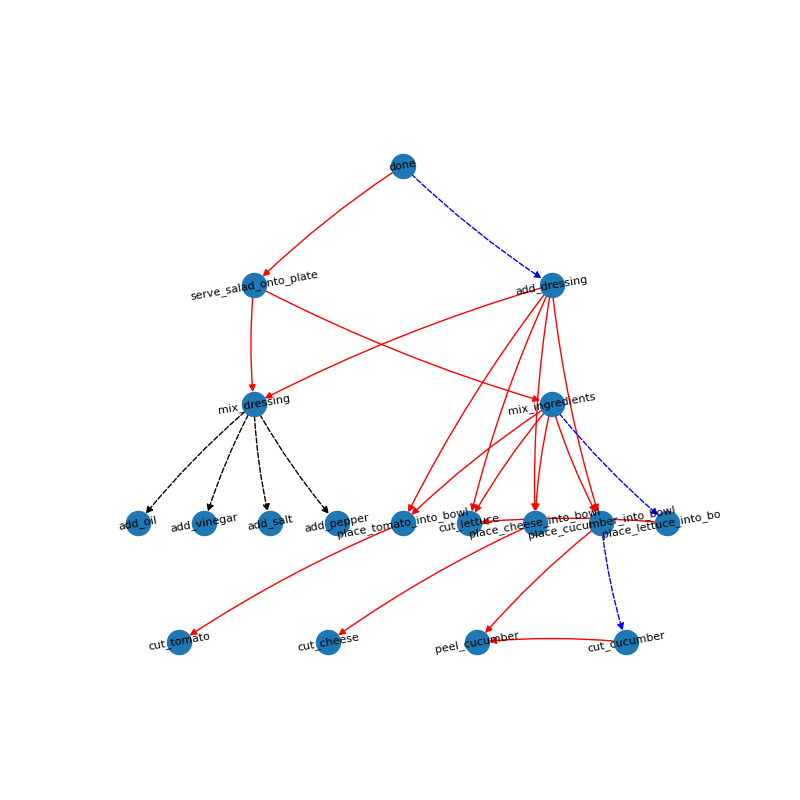
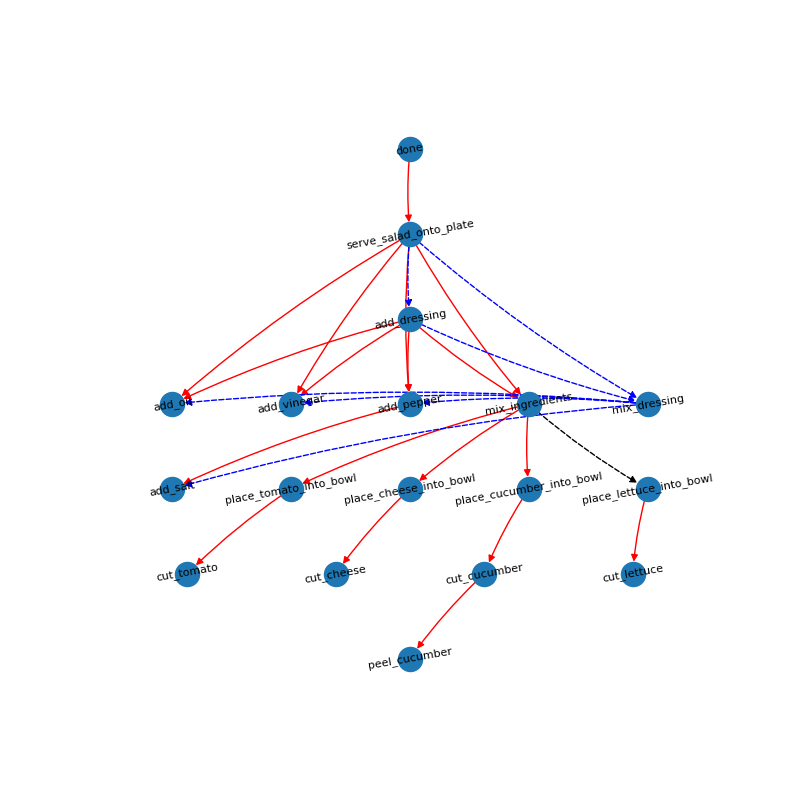
Trying to fix mix_dressing

diff --git a/combined_graph_2.py b/combined_graph_2.py
@@ -1,0 +1,192 @@
+import networkx as nx
+import matplotlib.pyplot as plt
+import math
+import numpy as np
+from graph_2 import *
+from pos import *
+import random
+import individual_graph
+
+high_level_nodes = ["cut_and_mix_ingredients", "prepare_dressing", "serve_salad"]
+
+def get_action_list(annotation_file):
+    f = open(annotation_file, 'r')
+    lines = f.readlines()
+    f.close()
+
+    all_actions = []
+    for line in lines:
+        tokens = line.split(' ')
+        start_time = tokens[0]
+        action_name = tokens[2][:-1]
+        if action_name not in high_level_nodes:
+            all_actions.append([start_time, action_name])
+    all_actions = sorted(all_actions, key=lambda x : int(x[0]))
+
+    refined_actions = []
+    for _, action_name in all_actions:
+        action_split = action_name.split('_')
+        if action_split[-1] in ['core', 'prep', 'post']:
+            action_name = "_".join(action_split[:-1])
+        if len(refined_actions) == 0 or refined_actions[-1] != action_name:
+            refined_actions.append(action_name) 
+    refined_actions.append("done")
+
+    return refined_actions
+
+
+def construct_graph(all_action_list, action_set_path):
+    graph = Graph()
+    action_set = open(action_set_path, 'r').read().splitlines()
+    for action in action_set:
+        cur_node = Node(action)
+        graph.add_node(cur_node)
+
+    for num, action_list in enumerate(all_action_list): # action_list는 영상의 label 순서대로 들어감.
+        missing_nodes = [graph.get_node(name) for name in list(set(action_set)-set(action_list))]
+        for idx, name in enumerate(action_list): # idx = 순서, name = label 이름 
+            cur_node = graph.get_node(name)
+            if cur_node.get_lowers() == None:
+                cur_node.empty_lowers()
+                for lower_name in action_list[:idx]:
+                    lower_node = graph.get_node(lower_name)
+                    if lower_node not in cur_node.get_lowers():
+                        cur_node.add_lower(lower_node)
+            else:
+                updated_lowers = [lower_node for lower_node in cur_node.get_lowers() if lower_node.name in action_list[:idx]]
+                cur_node.lower_nodes = updated_lowers
+
+            if cur_node.get_highers() == None:
+                cur_node.empty_highers()
+                for higher_name in action_list[idx+1:]:
+                    higher_node = graph.get_node(higher_name)
+                    if higher_node not in cur_node.get_highers():
+                        cur_node.add_higher(higher_node)
+            else:
+                updated_highers = [higher_node for higher_node in cur_node.get_highers() if higher_node.name in action_list[idx+1:]]
+                # cur_node.higher_nodes = updated_highers
+                removed_highers = list(set(cur_node.higher_nodes)-set(updated_highers))
+                cur_node.higher_nodes = updated_highers + [higher_node for higher_node in removed_highers if higher_node in missing_nodes]
+    return graph
+
+
+def reconstruct_graph(graph):
+    for i, node in enumerate(graph.get_node_list()):
+        for lnode in node.get_lowers():
+            if lnode not in node.get_edge_cnodes():
+                node.add_edge(lnode, 'lower')
+
+    for i, node in enumerate(graph.get_node_list(lambda x : x.num_highers())):
+        for higher in node.get_highers():
+            if node not in higher.get_edge_cnodes() and not higher.is_connected(node, visited_nodes=[]):
+                higher.add_edge(node, 'higher')
+                reconstruct_list = []
+                for cnode, pnode, edge_type in node.get_parent_edges():
+                    if pnode.has_edge(higher, ['lower']) and pnode.is_connected(node, visited_nodes=[higher], target_edge_types=['lower']):
+                        reconstruct_list.append(pnode)
+                for reconstruct in reconstruct_list:
+                    reconstruct.remove_edge(node, 'lower')
+                    higher.remove_edge(node, 'higher')
+                    if not higher.has_edge(node, 'new'):
+                        higher.add_edge(node, 'new')
+
+    changed = True
+    while changed:
+        changed = False
+        for i, node in enumerate(graph.get_node_list()):
+            all_edges = node.get_edges()
+            j = 0
+            while j < len(all_edges):
+                pnode, cnode, edge_type = all_edges[j]
+                if node.is_connected(cnode, visited_nodes=[], ignored_edges=[all_edges[j]], target_edge_types=['lower', 'new']):
+                    all_edges.remove(all_edges[j])
+                    changed = True
+                else:
+                    j += 1
+
+    return graph
+
+
+def draw_graph(graph):
+    f = plt.figure(figsize=(GRAPH_WIDTH, GRAPH_WIDTH))
+    r = f.canvas.get_renderer()
+    plt.axis('equal')
+
+    DG = nx.MultiDiGraph()
+
+    for i, node in enumerate(graph.get_node_list()):
+        DG.add_node(node.name, name=node.name)
+
+    for i, node in enumerate(graph.get_node_list()):
+        for pnode, cnode, edge_type in node.get_edges():
+            DG.add_edge(node.name, cnode.name, edge_type=edge_type)
+
+    nodelist = DG.nodes(data=True)
+    edgelist = DG.edges(data=True)
+
+    try:
+        # pos = nx.shell_layout(DG)
+        pos = hierarchy_pos_3(DG, 'done')
+        nx.draw_networkx_nodes(DG, pos=pos)
+    except Exception as e:
+        print(e)
+        # pos = nx.kamada_kawai_layout(DG)
+        pos = nx.shell_layout(DG)
+        nx.draw_networkx_nodes(DG, pos=pos)
+    
+
+    for edge_type, style, color in EDGE_STYLES:
+        edges = [(u, v) for (u, v, d) in edgelist if d["edge_type"] == edge_type]
+        nx.draw_networkx_edges(DG, pos=pos, edgelist=edges, style=style, edge_color=color, connectionstyle='arc3, rad={}'.format(0.05)) # random.uniform(0.05, 0.2)
+    
+    labels = nx.get_node_attributes(DG, 'name')
+    description = nx.draw_networkx_labels(DG, pos=pos, labels=labels, font_size=FONT_SIZE)
+    for node, t in description.items():
+        t.set_rotation(LABEL_ROTATION)
+    plt.box(False)
+
+    plt.savefig("graphs.png")
+
+'''
+Hyper-parameters
+'''
+LABEL_ROTATION = 10
+GRAPH_WIDTH = 8
+FONT_SIZE = 8
+EDGE_COLOR = "green"
+
+EDGE_STYLES = [
+    ('lower', 'solid', 'red'), 
+    ('higher', 'dashed', 'blue'),
+    ('new', 'dashed', 'black')
+    ]
+
+# plot_list = ["13-1", "17-2", "09-1"]
+# plot_list = ["07-1", "13-1", "15-2"]
+# plot_list = ["07-1", "13-1", "15-2", "13-1", "17-2", "09-1"]
+
+# plot_list = ['01-1', '04-2', '05-2']
+
+# WORST
+# plot_list = ['18-1', '26-2', '26-1']
+plot_list = ['26-2', '26-1', '18-1']
+# plot_list = ['26-2', '26-1']
+
+# WHY BLACK IS ADDED
+# plot_list = ['26-2', '26-1', '16-1', '12-2', '07-2', '07-1', '13-2', '06-2', '16-2', '12-1', '11-1', '26-2', '04-1', '26-1', '14-2', '03-1', '24-1', '21-1', '27-1', '22-1']
+
+# plot_list = ["{:02}-{}".format(i, j) for i in range(1,28) for j in [1, 2]]
+# random.shuffle(plot_list)
+# plot_list = plot_list[:30]
+
+individual_graph.main(plot_list)
+
+print(plot_list)
+
+all_action_list = []
+for idx, plot_file in enumerate(plot_list):
+    all_action_list.append(get_action_list("data/50salads/labels/{}-activityAnnotation.txt".format(plot_file)))
+
+graph_object = construct_graph(all_action_list, "data/50salads/actions.txt")
+graph_object = reconstruct_graph(graph_object)
+draw_graph(graph_object)

diff --git a/graph_2.py b/graph_2.py
@@ -1,0 +1,106 @@
+class Node():
+    def __init__(self, name):
+        self.name = name
+        self.lower_nodes = None
+        self.higher_nodes = None
+
+        self.edges = []
+        self.parent_edges = []
+    
+    def add_lower(self, obj):
+        self.lower_nodes.append(obj)
+
+    def add_higher(self, obj):
+        self.higher_nodes.append(obj)
+
+    def add_edge(self, obj, edge_type):
+        self.edges.append((self, obj, edge_type))
+        obj.parent_edges.append((obj, self, edge_type))
+    
+    def remove_lower(self, obj):
+        self.lower_nodes.remove(obj)
+    
+    def remove_higher(self, obj):
+        self.higher_nodes.remove(obj)
+
+    def empty_lowers(self):
+        self.lower_nodes = []
+
+    def update_lower_nodes(self, new_nodes):
+        self.lower_nodes = new_nodes
+
+    def empty_highers(self):
+        self.higher_nodes = []
+    
+    def get_lowers(self):
+        return self.lower_nodes
+    
+    def get_highers(self):
+        return self.higher_nodes
+
+    def get_edges(self):
+        return self.edges
+
+    def get_edge_cnodes(self):
+        return [edge for (_, edge, _) in self.edges]
+
+    def get_parent_edges(self):
+        return self.parent_edges
+
+    def num_lowers(self):
+        return len(self.lower_nodes)
+
+    def num_highers(self):
+        return len(self.higher_nodes)
+
+    def has_edge(self, tnode, target_edge_type):
+        for pnode, cnode, edge_type in self.edges:
+            if cnode == tnode and edge_type in target_edge_type:
+                return True
+        return False
+
+    def remove_edge(self, tnode, target_edge_type):
+        for cur_edge in self.edges:
+            pnode, cnode, edge_type = cur_edge
+            if cnode == tnode and edge_type == target_edge_type:
+                self.edges.remove(cur_edge)
+                break
+
+    def is_connected(self, tnode, visited_nodes=[], ignored_edges=[], target_edge_types=[]):
+        if self == tnode:
+            return True
+        for edge in self.edges:
+            pnode, cnode, edge_type = edge
+            if edge in ignored_edges:
+                continue
+            if len(target_edge_types) > 0 and edge_type not in target_edge_types:
+                continue
+            if cnode in visited_nodes:
+                continue
+            visited_nodes.append(cnode)
+            if cnode.is_connected(tnode, visited_nodes, ignored_edges, target_edge_types):
+                return True
+        return False
+
+    def __str__(self):
+        return self.name
+
+class Graph():
+    def __init__(self):
+        self.nodes = []
+
+    def add_node(self, node):
+        self.nodes.append(node)
+    
+    def get_node(self, name):
+        for node in self.nodes:
+            if node.name == name:
+                return node
+        return False
+
+    def is_empty(self):
+        return len(self.nodes) == 0
+
+    def get_node_list(self, func=lambda x : x.num_lowers()):
+        # self.nodes = sorted(self.nodes, key=func)
+        return self.nodes
